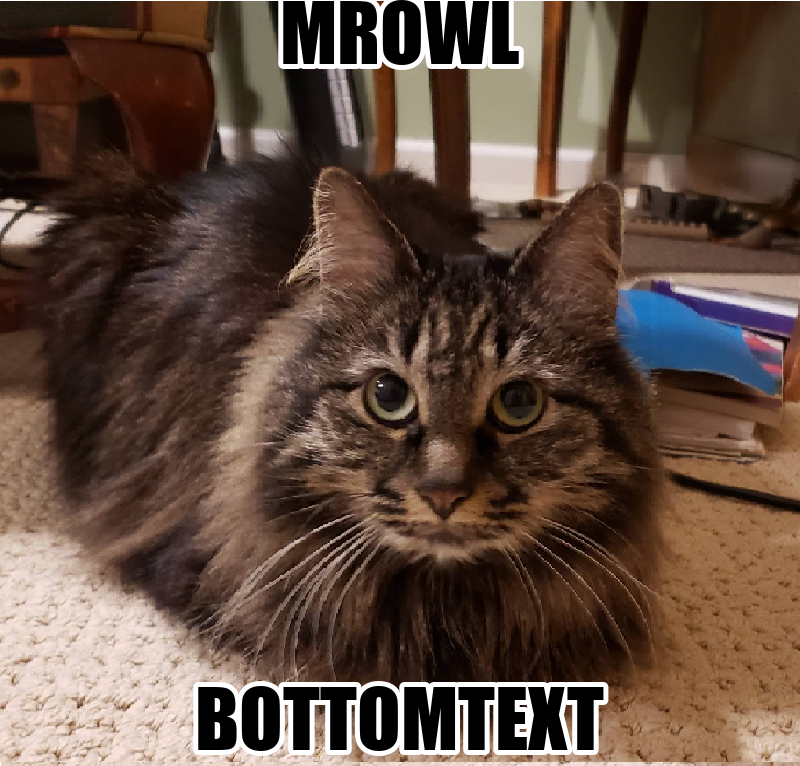
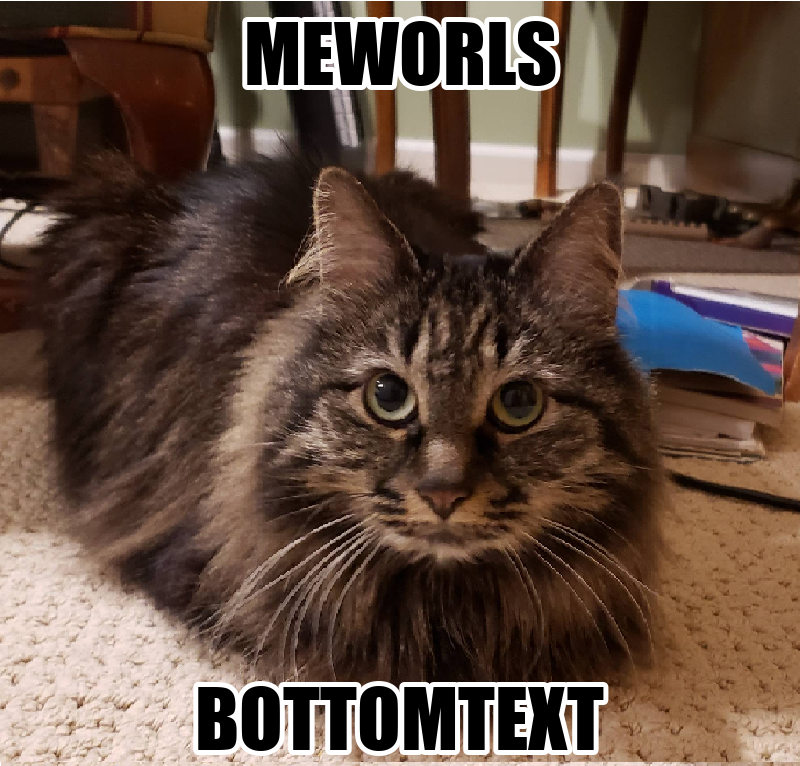
bottotext fix

Changed region(s): [[0.2812, 0.0, 0.7188, 0.1201]]

diff --git a/bottomtext3.py b/bottomtext3.py
@@ -2,7 +2,7 @@
 from PIL import Image, ImageFilter, ImageOps, ImageDraw, ImageFont
 from io import BytesIO
 
-rawtext = input('What bottomtext')
+rawtext = input('what bottomtext: ')
 path = 'kitty.png'
 
 text = rawtext.upper()
@@ -17,8 +17,8 @@ with Image.open(path) as img:
 
 font = ImageFont.truetype('impact.ttf', size = textsize)
 
-draw.text((width // 2, 0),text, font = font, fill = (0,0,0), align = 'center', anchor = 'mt', stroke_width = 5, stroke_fill = (255,255,255))
-draw.text((width // 2, height - textsize),'BOTTOMTEXT', font = font, fill = (0,0,0), align = 'center', anchor = 'mt', stroke_width = 5, stroke_fill = (255,255,255))
+draw.text((width // 2, height / 35),text, font = font, fill = (0,0,0), align = 'center', anchor = 'mt', stroke_width = 5, stroke_fill = (255,255,255))
+draw.text((width // 2, height - textsize ),'BOTTOM TEXT', font = font, fill = (0,0,0), align = 'center', anchor = 'mt', stroke_width = 5, stroke_fill = (255,255,255))
 
 image.save('bottomtext1.png')
 
